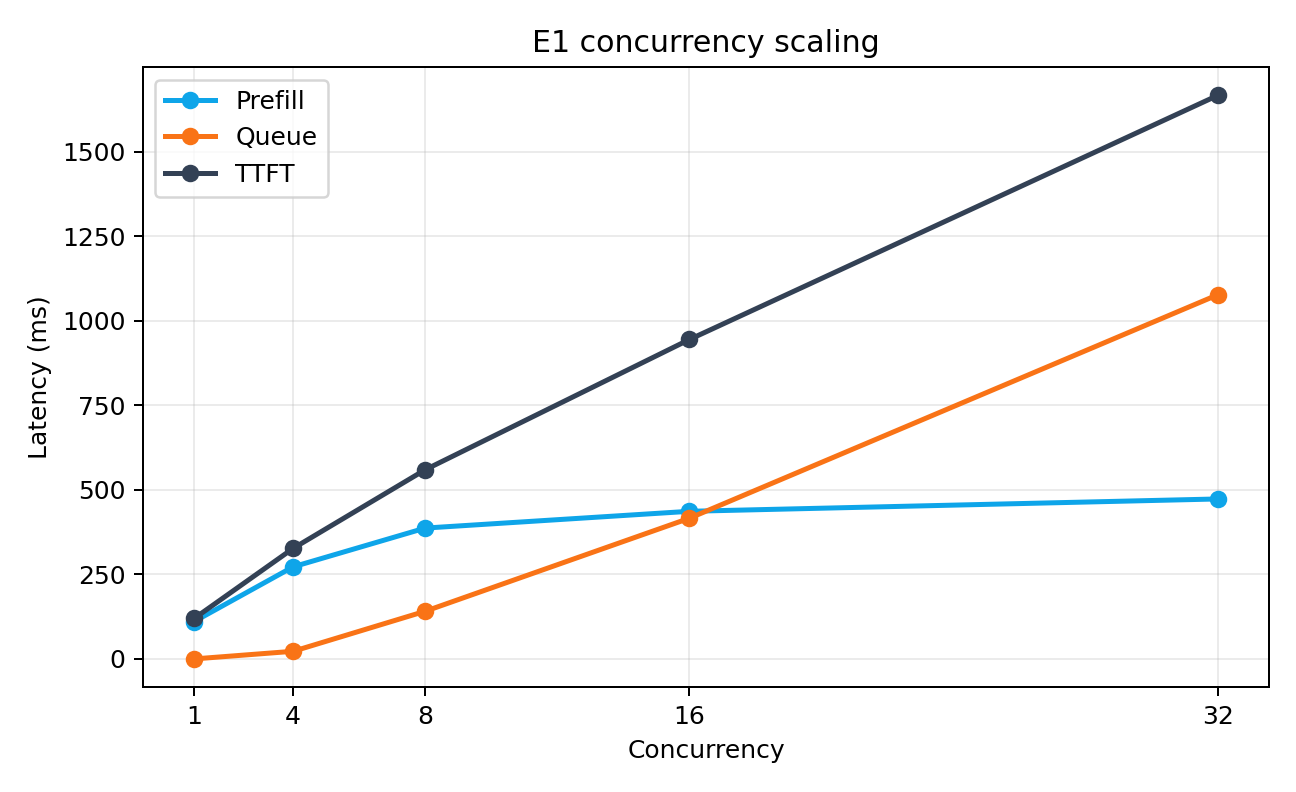
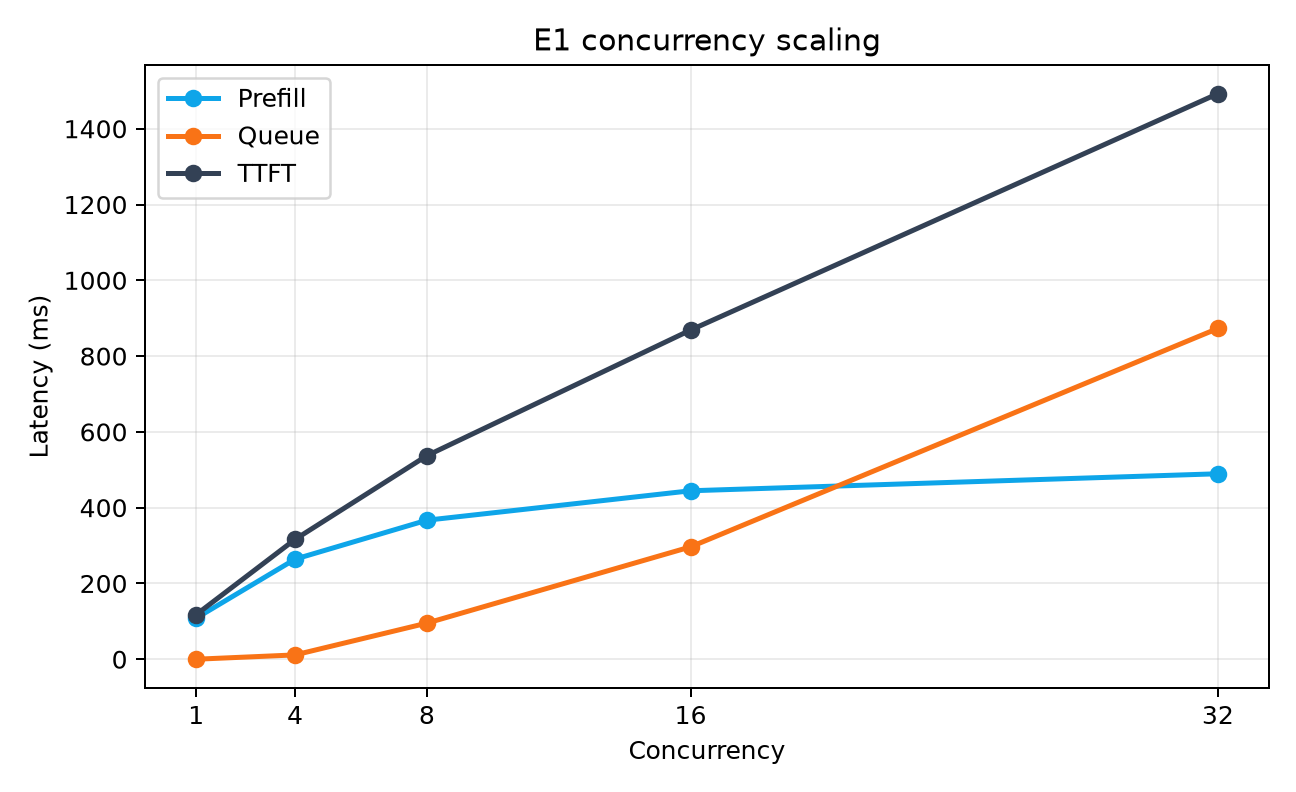
data: refresh E1-E3 after corrected rerun

diff --git a/src/benchmark/plot_results.py b/src/benchmark/plot_results.py
@@ -82,8 +82,8 @@ def main() -> None:
 
     by_case = {row["case"]: row for row in native_rows}
     e3a = [
-        by_case["e1-v2-c16"], by_case["e3a-v2-c16"],
-        by_case["e1-v2-c32"], by_case["e3a-v2-c32"],
+        by_case["e1-c16"], by_case["e3a-seq8-c16"],
+        by_case["e1-c32"], by_case["e3a-seq8-c32"],
     ]
     positions = list(range(len(e3a)))
     width = 0.24
@@ -110,9 +110,9 @@ def main() -> None:
     plt.close(fig)
 
     e3b = [
-        ("0.85", by_case["e1-v2-c32"]),
-        ("0.40", by_case["e3b-v2-040-c32"]),
-        ("0.35", by_case["e3b-v2-035-c32"]),
+        ("0.85", by_case["e1-c32"]),
+        ("0.40", by_case["e3b-mem040-c32"]),
+        ("0.35", by_case["e3b-mem035-c32"]),
     ]
     fig, ax = plt.subplots(figsize=(7.2, 4.4))
     for label, field in (

diff --git a/README.md b/README.md
@@ -5,8 +5,8 @@
 ## 核心成果
 
 - 使用 vLLM Native Metrics 对照 TTFT、Queue 与 Prefill 的变化，避免依赖单一端到端延迟判断瓶颈。
-- 在相同 c32 workload 下将 `max_num_seqs` 从 32 降至 8，Queue 从约 1.08 s 增至 5.43 s，验证 Scheduler admission capacity 对首 token 延迟的影响。
-- 将 `gpu_memory_utilization` 从 0.85 降至 0.35 后，TTFT 仍约为 1.67 s 且未发生 Preemption，说明当前 workload 的主导瓶颈不是 KV capacity。
+- 在相同 c32 workload 下将 `max_num_seqs` 从 32 降至 8，Queue 从约 0.87 s 增至 5.44 s，验证 Scheduler admission capacity 对首 token 延迟的影响。
+- 将 `gpu_memory_utilization` 从 0.85 降至 0.35 后，TTFT 均约为 1.49 s 且未发生 Preemption，说明当前 workload 的主导瓶颈不是 KV capacity。
 - 在固定 129-token 输入和 512-token 输出的流式实验中，concurrency 1→32 时 TPOT P50 从 5.80 ms 增至 7.31 ms，同时请求窗口输出吞吐显著增长。
 - 使用 AutoGPTQ、llm-compressor 与 llama-quantize 完成 Qwen2.5-7B 的 GPTQ-Int4、AWQ W4A16、GGUF Q4_K_M/Q8_0 转换与加载验证，并完成 FP16/AWQ 共 95 组、2850 请求的部署压测。
 - 使用 Docker Compose 验证 Nginx → Gateway → llama.cpp 的非流式/流式请求链路，以及 Prometheus 对 Gateway 指标的抓取、Grafana 数据源和仪表盘加载。
@@ -60,10 +60,10 @@ flowchart LR
 
 | Prompt tokens | Prefill | Queue | Native TTFT |
 |---:|---:|---:|---:|
-| 137 | 48.4 ms | 0.02 ms | 64.7 ms |
-| 515 | 159.9 ms | 0.02 ms | 180.8 ms |
-| 1028 | 279.6 ms | 19.1 ms | 326.1 ms |
-| 2054 | 482.2 ms | 104.8 ms | 672.4 ms |
+| 137 | 45.6 ms | 0.02 ms | 57.3 ms |
+| 515 | 143.1 ms | 0.02 ms | 173.0 ms |
+| 1028 | 260.5 ms | 4.8 ms | 310.6 ms |
+| 2054 | 474.6 ms | 61.3 ms | 668.0 ms |
 
 短 Prompt 下 TTFT 增长主要来自 Prefill；Prompt 进一步变长后，Queue 也开始放大 TTFT。
 
@@ -73,8 +73,8 @@ flowchart LR
 
 | `max_num_seqs` | Prefill | Queue | Native TTFT |
 |---:|---:|---:|---:|
-| 32 | 472.9 ms | 1076.6 ms | 1666.0 ms |
-| 8 | 271.6 ms | 5431.1 ms | 5808.6 ms |
+| 32 | 489.4 ms | 873.0 ms | 1492.5 ms |
+| 8 | 289.6 ms | 5440.9 ms | 5844.1 ms |
 
 TTFT 的新增部分主要累积在 Queue，而 Prefill 没有同步恶化。该结果支持 Queue-dominated TTFT 的判断。
 
@@ -84,9 +84,9 @@ TTFT 的新增部分主要累积在 Queue，而 Prefill 没有同步恶化。该
 
 | `gpu_memory_utilization` | Prefill | Queue | Native TTFT |
 |---:|---:|---:|---:|
-| 0.85 | 472.9 ms | 1076.6 ms | 1666.0 ms |
-| 0.40 | 473.5 ms | 1106.0 ms | 1668.1 ms |
-| 0.35 | 467.6 ms | 1089.9 ms | 1674.1 ms |
+| 0.85 | 489.4 ms | 873.0 ms | 1492.5 ms |
+| 0.40 | 489.3 ms | 870.0 ms | 1495.1 ms |
+| 0.35 | 489.7 ms | 872.7 ms | 1493.7 ms |
 
 显著压缩 KV budget 后，TTFT 没有出现有意义的变化，且 `preemptions_delta=0`。这个 workload 下的主要限制仍来自调度与 admission pressure。
 

diff --git a/docs/LIMITATIONS.md b/docs/LIMITATIONS.md
@@ -1,7 +1,7 @@
 # 实验限制
 
 - E1–E3 使用非流式请求。客户端记录的是端到端延迟，TTFT、Prefill、Queue 和 TPOT 来自 vLLM 原生指标，不能把客户端端到端延迟直接表述为 TTFT。
-- 当前公开的 E1–E3 参考汇总中，每组 CSV 包含 60 个正式请求，Native Metrics 窗口还包含 1 个相同输入与输出配置的 warmup 请求，因此原生阶段均值按 61 个请求计算。当前复现脚本已将 warmup 移到 before 快照之前，使后续结果的指标计数与正式请求数一致。
+- E1–E3 的公开结果来自修正计时窗口后的完整重跑：每组包含 60 个正式请求，warmup 在 before 快照之前完成，Native Metrics 的计数差分与正式请求数一致。
 - Prometheus Histogram 的 P95 受 bucket 粒度限制。Queue 等短时阶段同时给出窗口内 `Δsum / Δcount` 均值，避免只根据粗粒度分位桶判断差异。
 - E3B 的测试范围内没有出现 preemption 或 allocation failure，因此结论仅适用于当前模型、请求形态和并发范围，不能推出更高压力下仍无 KV 容量瓶颈。
 - E4 固定发送 40 个请求，吞吐量按首个请求开始到最后一个请求结束的 request window 计算，代表该批 workload 的完成速率，不等同于长时间稳态容量。
